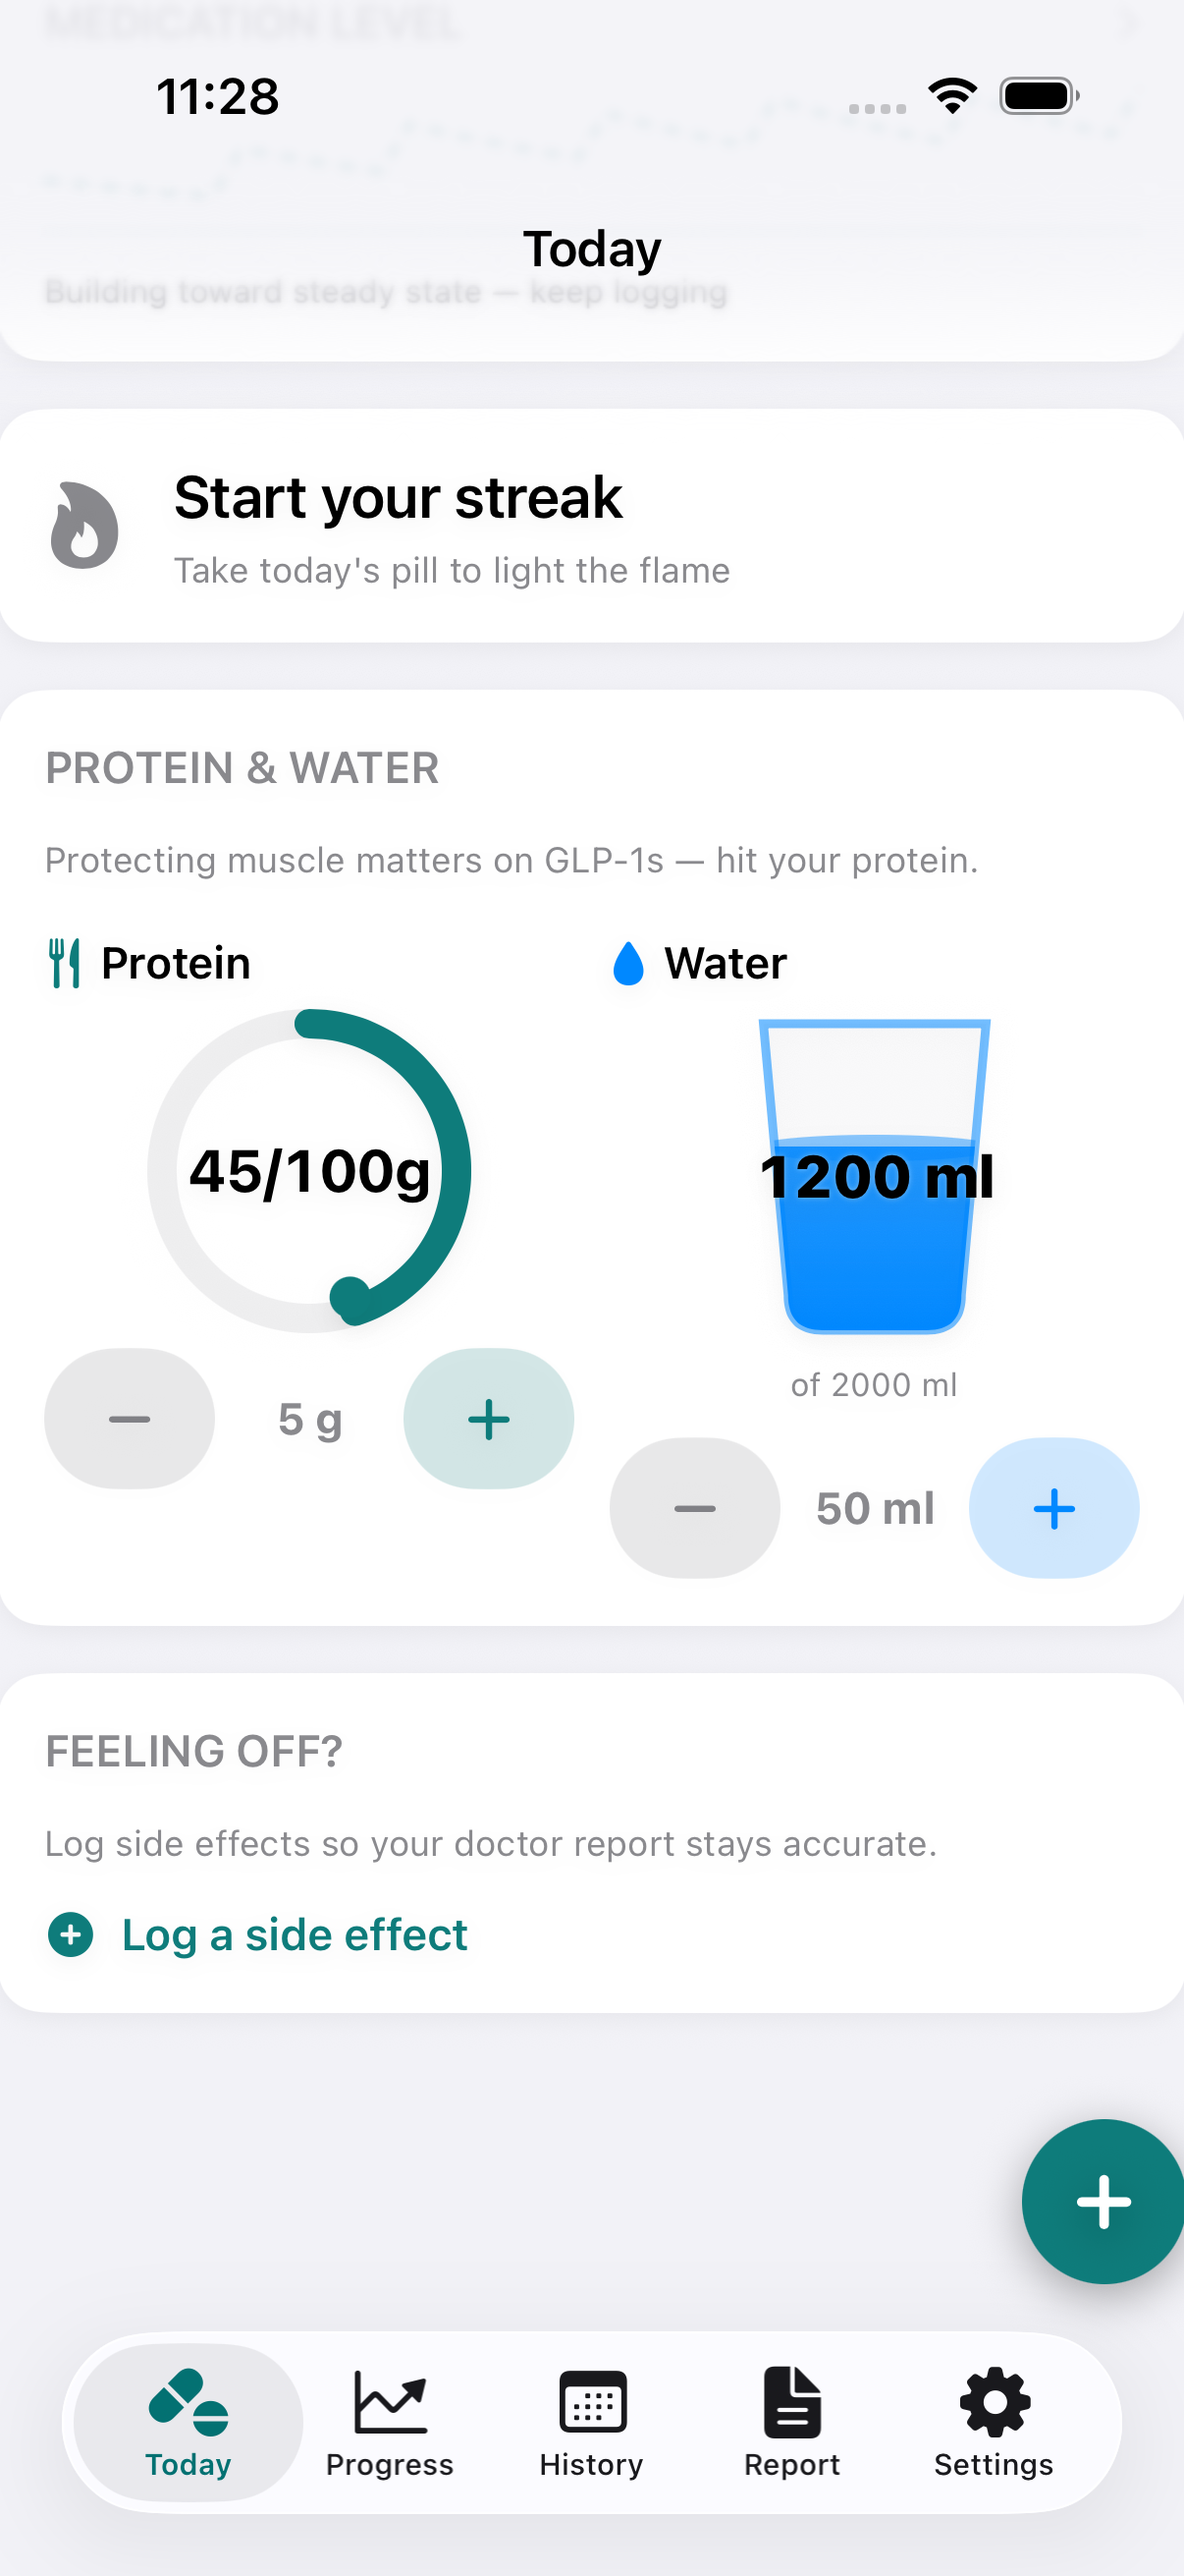
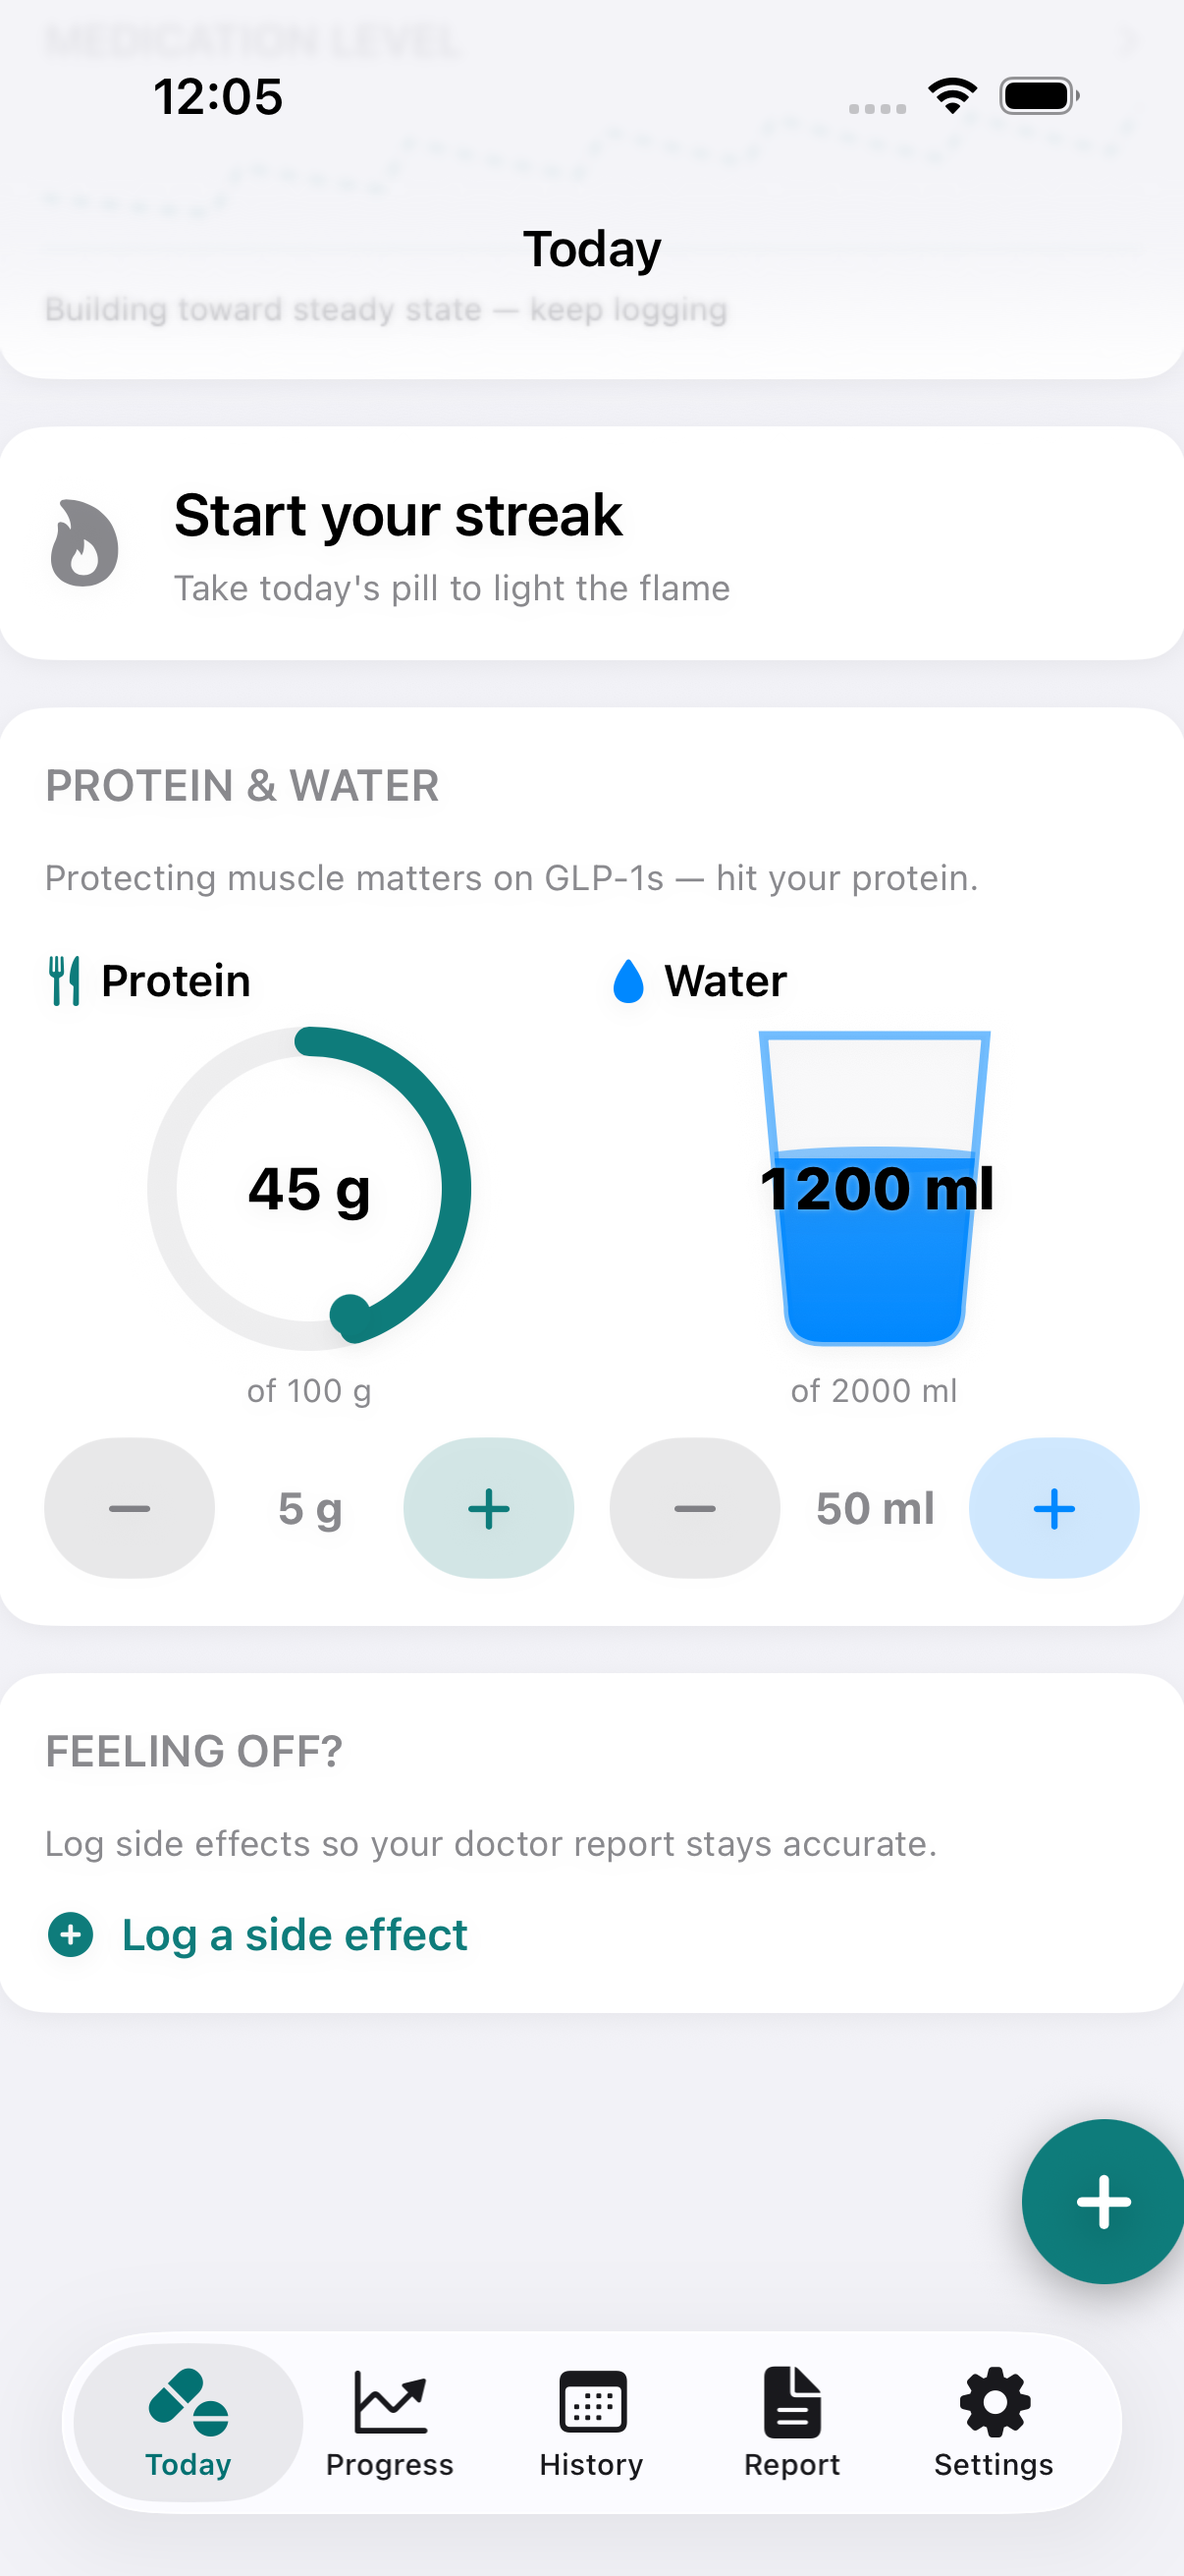
feat: align protein & water into a single Grid (row-by-row: label, visual, target, stepper)

diff --git a/App/Sources/Features/Today/IntakeCountersView.swift b/App/Sources/Features/Today/IntakeCountersView.swift
@@ -42,9 +42,29 @@ struct IntakeCountersView: View {
                 .font(.caption)
                 .foregroundStyle(.secondary)
 
-            HStack(alignment: .top, spacing: 12) {
-                proteinColumn
-                waterColumn
+            // Grid so labels, visuals, targets, and steppers line up row-by-row
+            // across both columns.
+            Grid(horizontalSpacing: 12, verticalSpacing: 8) {
+                GridRow {
+                    columnHeader(icon: "fork.knife", title: "Protein", tint: Theme.primary,
+                                 hit: proteinValue >= proteinTarget)
+                    columnHeader(icon: "drop.fill", title: "Water", tint: .blue,
+                                 hit: waterValue >= waterTarget)
+                }
+                GridRow {
+                    proteinRing
+                    waterGlass
+                }
+                GridRow {
+                    targetCaption("of \(proteinTarget) g")
+                    targetCaption("of \(waterDisplay(waterTarget))")
+                }
+                GridRow {
+                    stepper(tint: Theme.primary, step: 5, stepLabel: "5 g",
+                            unit: "grams of protein", onDelta: onProtein)
+                    stepper(tint: .blue, step: waterStep, stepLabel: metric ? "50 ml" : "8 oz",
+                            unit: metric ? "milliliters of water" : "ounces of water", onDelta: onWater)
+                }
             }
             .padding(.top, 4)
         }
@@ -102,57 +122,40 @@ struct IntakeCountersView: View {
 
     private static let invalidInputMessage = "Enter a number between 0 and 100000."
 
-    // MARK: - Protein (ring)
+    // MARK: - Grid cells
 
-    private var proteinColumn: some View {
+    private var proteinRing: some View {
         let fraction = proteinTarget > 0 ? Double(proteinValue) / Double(proteinTarget) : 0
-        let hit = proteinValue >= proteinTarget
-        return VStack(spacing: 10) {
-            columnHeader(icon: "fork.knife", title: "Protein", tint: Theme.primary, hit: hit)
-
-            Button {
-                editText = ""
-                inputError = nil
-                editingProtein = true
-            } label: {
-                ProteinRingView(fraction: fraction, tint: Theme.primary,
-                                label: "\(proteinValue)/\(proteinTarget)g")
-            }
-            .buttonStyle(.plain)
-            .accessibilityLabel("Protein \(proteinValue) of \(proteinTarget) grams. Tap to type an exact value.")
-
-            stepper(tint: Theme.primary, step: 5, stepLabel: "5 g",
-                    unit: "grams of protein", onDelta: onProtein)
+        return Button {
+            editText = ""
+            inputError = nil
+            editingProtein = true
+        } label: {
+            ProteinRingView(fraction: fraction, tint: Theme.primary, label: "\(proteinValue) g")
         }
+        .buttonStyle(.plain)
         .frame(maxWidth: .infinity)
+        .accessibilityLabel("Protein \(proteinValue) of \(proteinTarget) grams. Tap to type an exact value.")
     }
 
-    // MARK: - Water (glass)
-
-    private var waterColumn: some View {
+    private var waterGlass: some View {
         let fraction = waterTarget > 0 ? Double(waterValue) / Double(waterTarget) : 0
-        let hit = waterValue >= waterTarget
-        let stepLabel = metric ? "50 ml" : "8 oz"
-        return VStack(spacing: 10) {
-            columnHeader(icon: "drop.fill", title: "Water", tint: .blue, hit: hit)
-
-            Button {
-                editText = ""
-                inputError = nil
-                editingWater = true
-            } label: {
-                WaterGlassView(fraction: fraction, label: waterDisplay(waterValue))
-            }
-            .buttonStyle(.plain)
-            .accessibilityLabel("Water \(waterDisplay(waterValue)) of \(waterDisplay(waterTarget)). Tap to type an exact value.")
-
-            Text("of \(waterDisplay(waterTarget))")
-                .font(.caption2).foregroundStyle(.secondary)
-
-            stepper(tint: .blue, step: waterStep, stepLabel: stepLabel,
-                    unit: metric ? "milliliters of water" : "ounces of water", onDelta: onWater)
+        return Button {
+            editText = ""
+            inputError = nil
+            editingWater = true
+        } label: {
+            WaterGlassView(fraction: fraction, label: waterDisplay(waterValue))
         }
+        .buttonStyle(.plain)
         .frame(maxWidth: .infinity)
+        .accessibilityLabel("Water \(waterDisplay(waterValue)) of \(waterDisplay(waterTarget)). Tap to type an exact value.")
+    }
+
+    private func targetCaption(_ text: String) -> some View {
+        Text(text)
+            .font(.caption2).foregroundStyle(.secondary)
+            .frame(maxWidth: .infinity)
     }
 
     // MARK: - Shared pieces
@@ -192,5 +195,6 @@ struct IntakeCountersView: View {
             .buttonStyle(.bordered).tint(tint)
             .accessibilityLabel("Add \(stepLabel)")
         }
+        .frame(maxWidth: .infinity)
     }
 }
